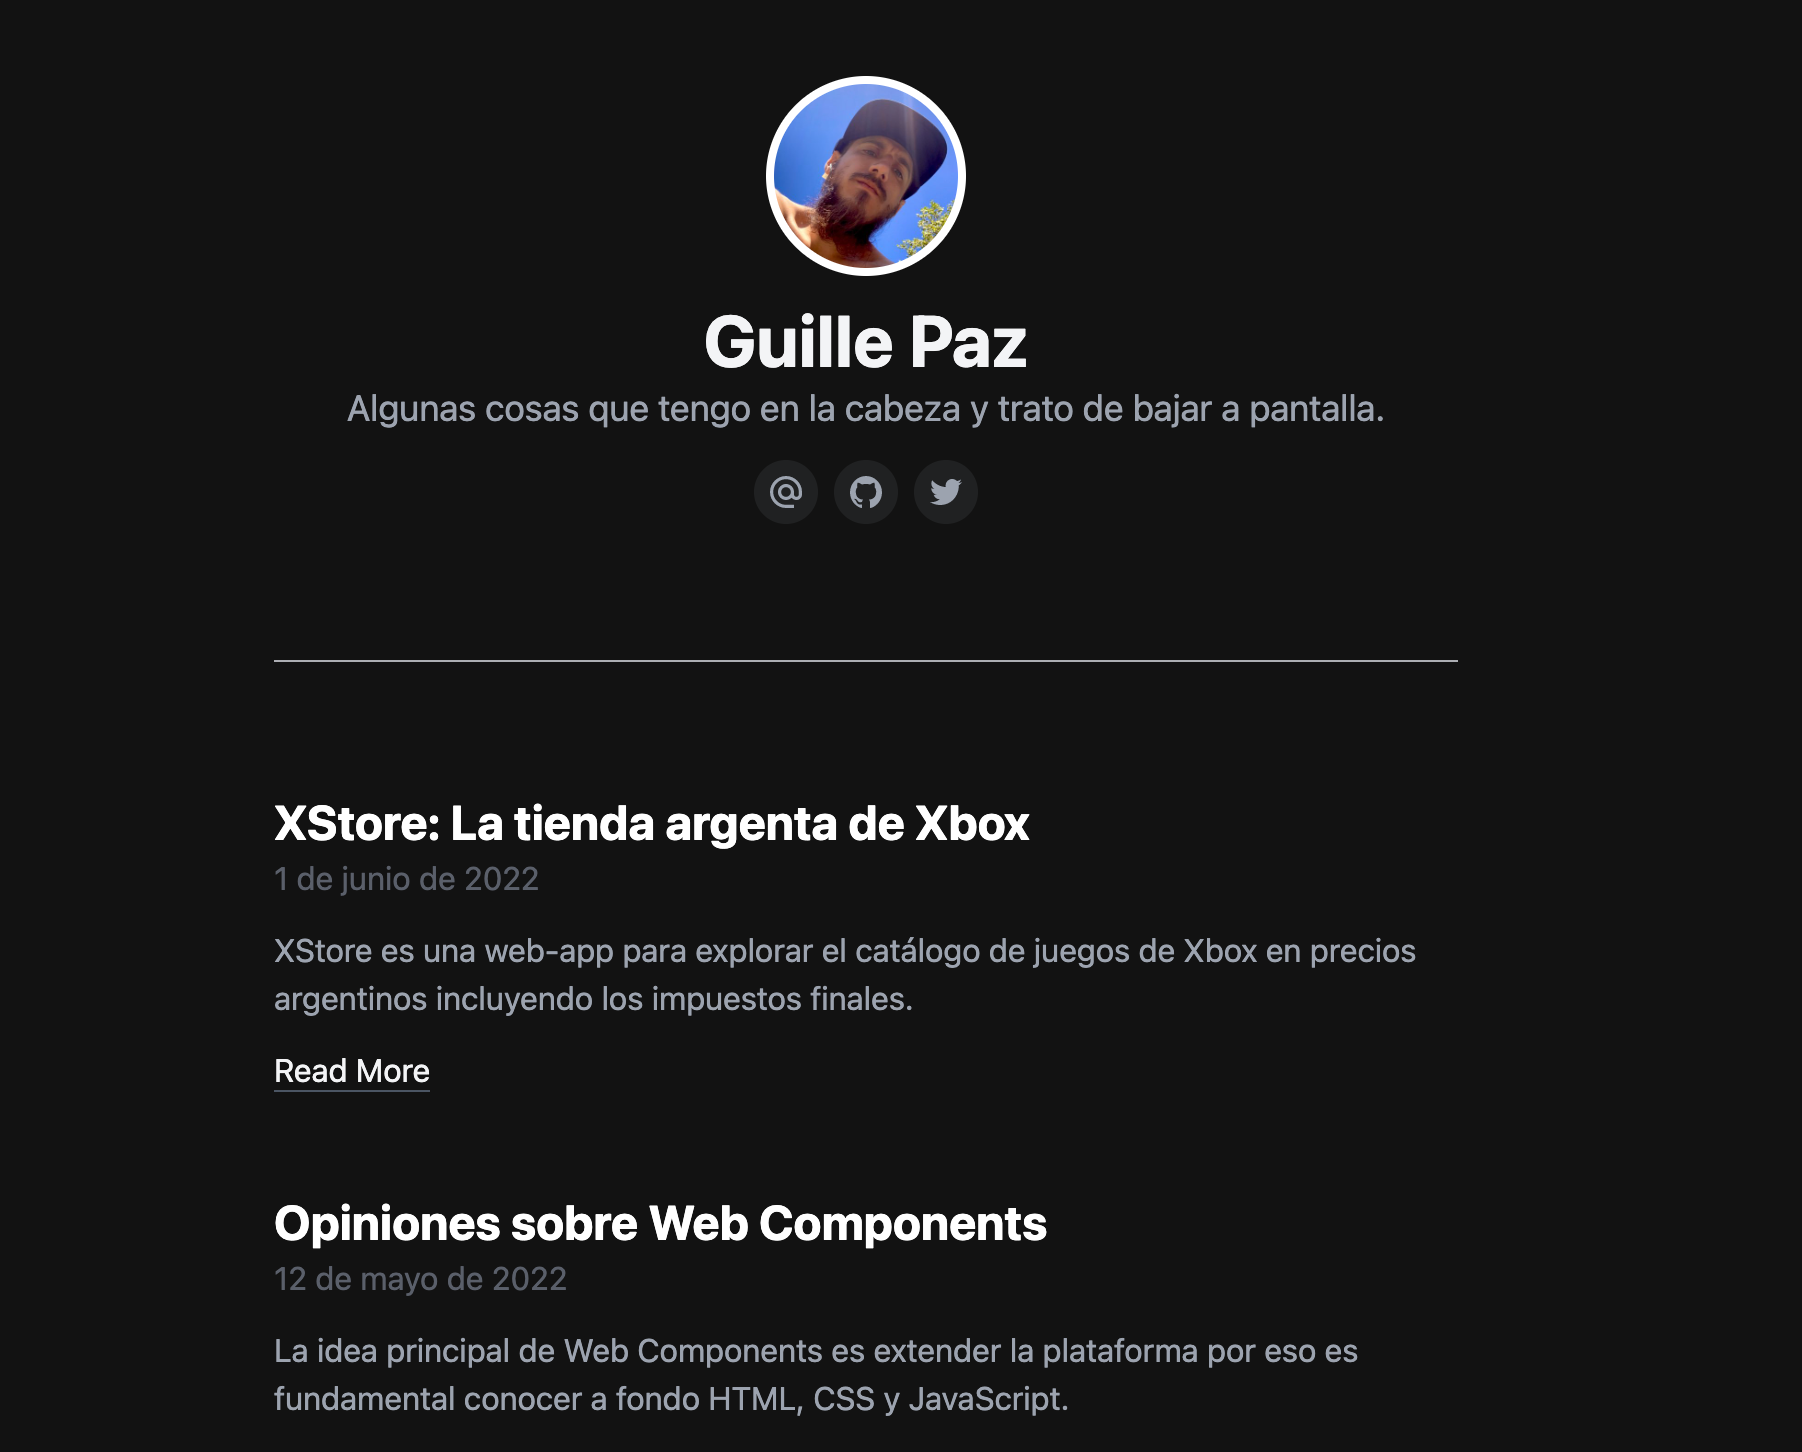
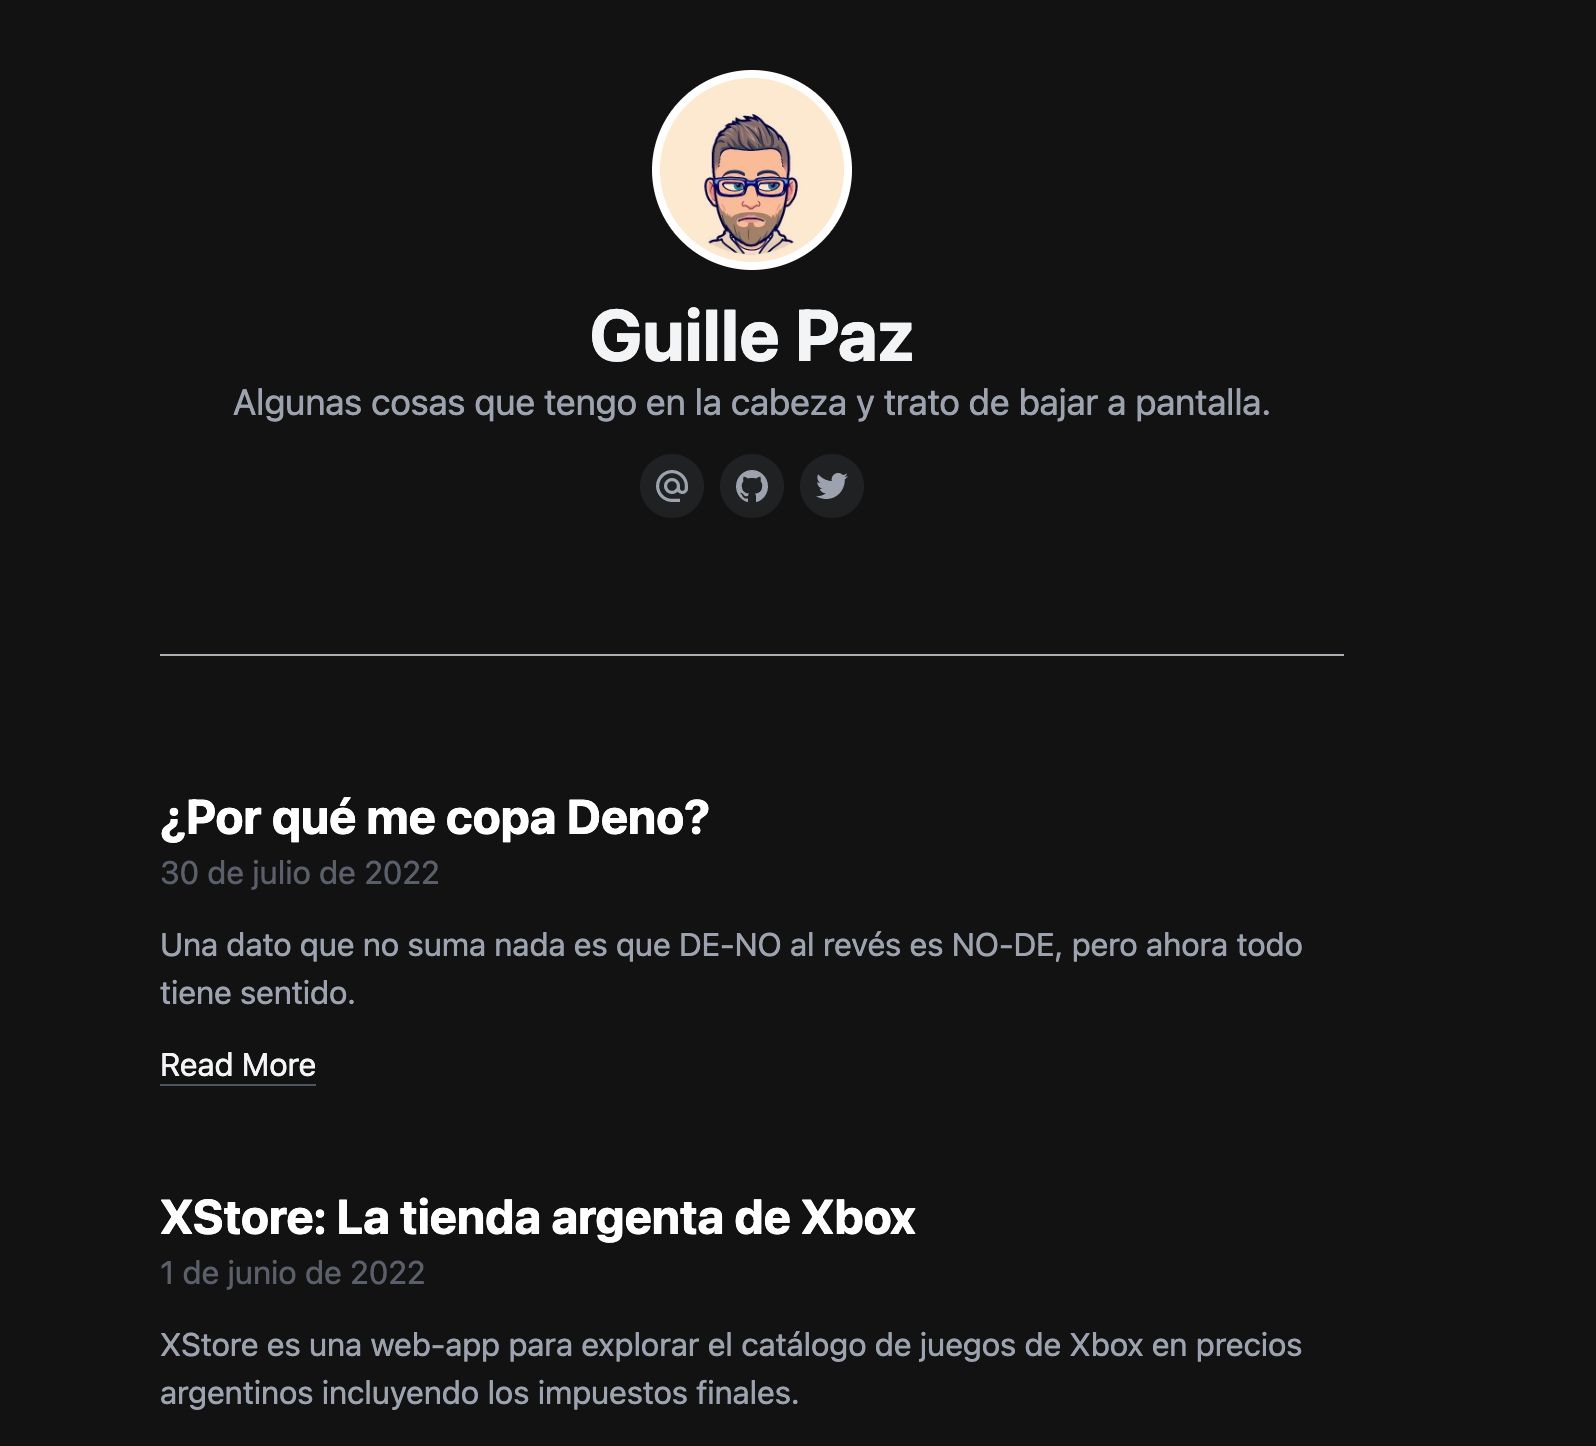
Add new post.

diff --git a/main.jsx b/main.jsx
@@ -19,9 +19,9 @@ blog({
     { title: 'GitHub', url: 'https://github.com/pazguille' },
     { title: 'Twitter', url: 'https://twitter.com/pazguille' },
   ],
-  middlewares: [
-    ga('G-7PQP926E3C'),
-  ],
+  // middlewares: [
+  //   ga4('G-7PQP926E3C'), // Waiting for https://github.com/denoland/deno_blog/pull/31
+  // ],
   footer: <Footer />,
   style: `ul { list-style: disc; } ol { list-style: decimal; }`,
 });

diff --git a/posts/2022/migre-el-blog-a-deno-en-5-minutos.md b/posts/2022/migre-el-blog-a-deno-en-5-minutos.md
@@ -1,0 +1,108 @@
+---
+title: >
+  Migré el blog a Deno en 5 minutos
+description: >
+  La forma que elegí para empezar a probar Deno fue migrando mi blog y quedé sorprendido de lo fácil y rápido que resultó.
+publish_date: 2022-07-31
+cover_html: <img alt="" src="/assets/deno-blog.png" style="margin:0 auto;" width="592" height="296">
+og:image: https://blog.pazguille.me/assets/deno-blog.png
+---
+
+---
+
+La forma que elegí para empezar a probar [Deno](https://deno.land) fue migrando [mi blog](https://blog.pazguille.me/) y quedé sorprendido de lo fácil y rápido que resultó.
+
+Me sirvió para familiarizarme con su entorno, manejo de dependencias, permisos y leer el código de los módulos que usé.
+
+*Nota: Si quieren saber más sobre Deno, les recomiendo leer el post [¿Por qué me copa Deno?](https://blog.pazguille.me/2022/por-que-me-copa-deno).*
+
+## Primer paso
+
+En MacOS, se puede usar homebrew para instalar Deno y [hay varias opciones disponibles según OS](https://deno.land/#installation).
+
+En mi caso elegí Brew:
+
+```
+$ brew install deno
+```
+
+## Creando el blog
+Una vez instalado, usé [Deno Blog](https://github.com/denoland/deno_blog) porque brinda todo lo necesario a nivel boilerplate para levantar un blog en 2 líneas de código.
+
+```js
+import blog from "https://deno.land/x/blog@0.4.2/blog.tsx";
+
+blog({ ... });
+```
+
+*Nota: Muuucha magia pero lo interesante es [leer lo que hace el módulo para ir profundizando](https://github.com/denoland/deno_blog/blob/main/blog.tsx#L96).*
+
+Creé la carpeta `./blog` y ejecuté el siguiente script desde la terminal:
+
+```
+$ deno run -r --allow-read --allow-write https://deno.land/x/blog/init.ts ./blog/
+```
+
+Una vez que finalizó ya tenía el setup inicial con un primer post "Hello world" a modo de demo.
+
+Levanté el server local (clave viene con hot reload) ejecutando:
+
+```
+$ deno task dev
+```
+
+Personalicé la home, configurando algunos aspectos del blog en el archivo `./blog/main.ts`. Lo malo es que no hay mucha documentación, por lo que [les recomiendo leer directamente los types](https://github.com/denoland/deno_blog/blob/main/types.d.ts#L17).
+
+```js
+import blog from 'https://deno.land/x/blog@0.4.2/blog.tsx';
+
+blog({
+  lang: 'es-AR',
+  theme: 'dark',
+  dateStyle: 'long',
+  author: 'Guille Paz',
+  title: 'Guille Paz',
+  description: 'Algunas cosas que tengo en la cabeza y trato de bajar a pantalla.',
+  favicon: '/assets/favicon.ico',
+  avatar: '/assets/avatar.jpg',
+  ogImage: 'https://blog.pazguille.me/assets/avatar.jpg',
+  avatarClass: 'rounded-full',
+  links: [
+    { title: 'Email', url: 'mailto:guille87paz@gmail.com' },
+    { title: 'GitHub', url: 'https://github.com/pazguille' },
+    { title: 'Twitter', url: 'https://twitter.com/pazguille' },
+  ]
+});
+```
+
+## Escribiendo un post
+
+Una vez configurado migré y escribí los posts dentro de la carpeta `./blog/posts` creando archivos markdown para cada entrada. Por ejemplo `primeros-pasos-en-web.md`:
+
+```
+---
+title: Primeros pasos en web
+description: Si estás arrancado en web sugiero priorizar ...
+publish_date: 2020-05-24
+---
+
+Si estás arrancado en web sugiero priorizar conocimientos básicos y conocer las herramientas estándar con las que vas a poder probar todo sin instalarte nada.
+```
+
+Cada post contiene meta data (front-matter) para configurar y pisar algunas configuraciones globales, como el autor.
+
+## Vamo'a deployá
+Todo muy lindo pero... ¿a dónde lo subo? Bueno, acá es donde juega [Deno Deploy](https://deno.com/deploy); <s>un sistema distribuido que permite correr JavaScript en el Edge.</s> el Vercel para correr proyectos de Deno sin tener que configurar nada adicional.
+
+[Creé una cuenta](https://dash.deno.com/signin) en Deno Deploy (tiene plan gratuito 💸), luego un proyecto (pazguille-blog) y lo asocié al repo de al repo de Github y al archivo `main.tsx`.
+
+Deploy.
+
+Listo! El blog ya estaba disponible en `pazguille-blog.deno.dev` y luego puede configurar mi propio dominio: [https://blog.pazguille.me](https://blog.pazguille.me).
+
+Super fácil me permitió aprender y empezar a meterme con Deno. Comparto [el código del blog](https://github.com/pazguille/blog) por si les interesa revisar.
+
+Ahora quiero mover los markdown a una base de datos para seguir aprendiendo. Además, pensar en una web app para ABM donde voy a usar [Fresh](https://fresh.deno.dev/).
+
+Chao. 🚀
+---
